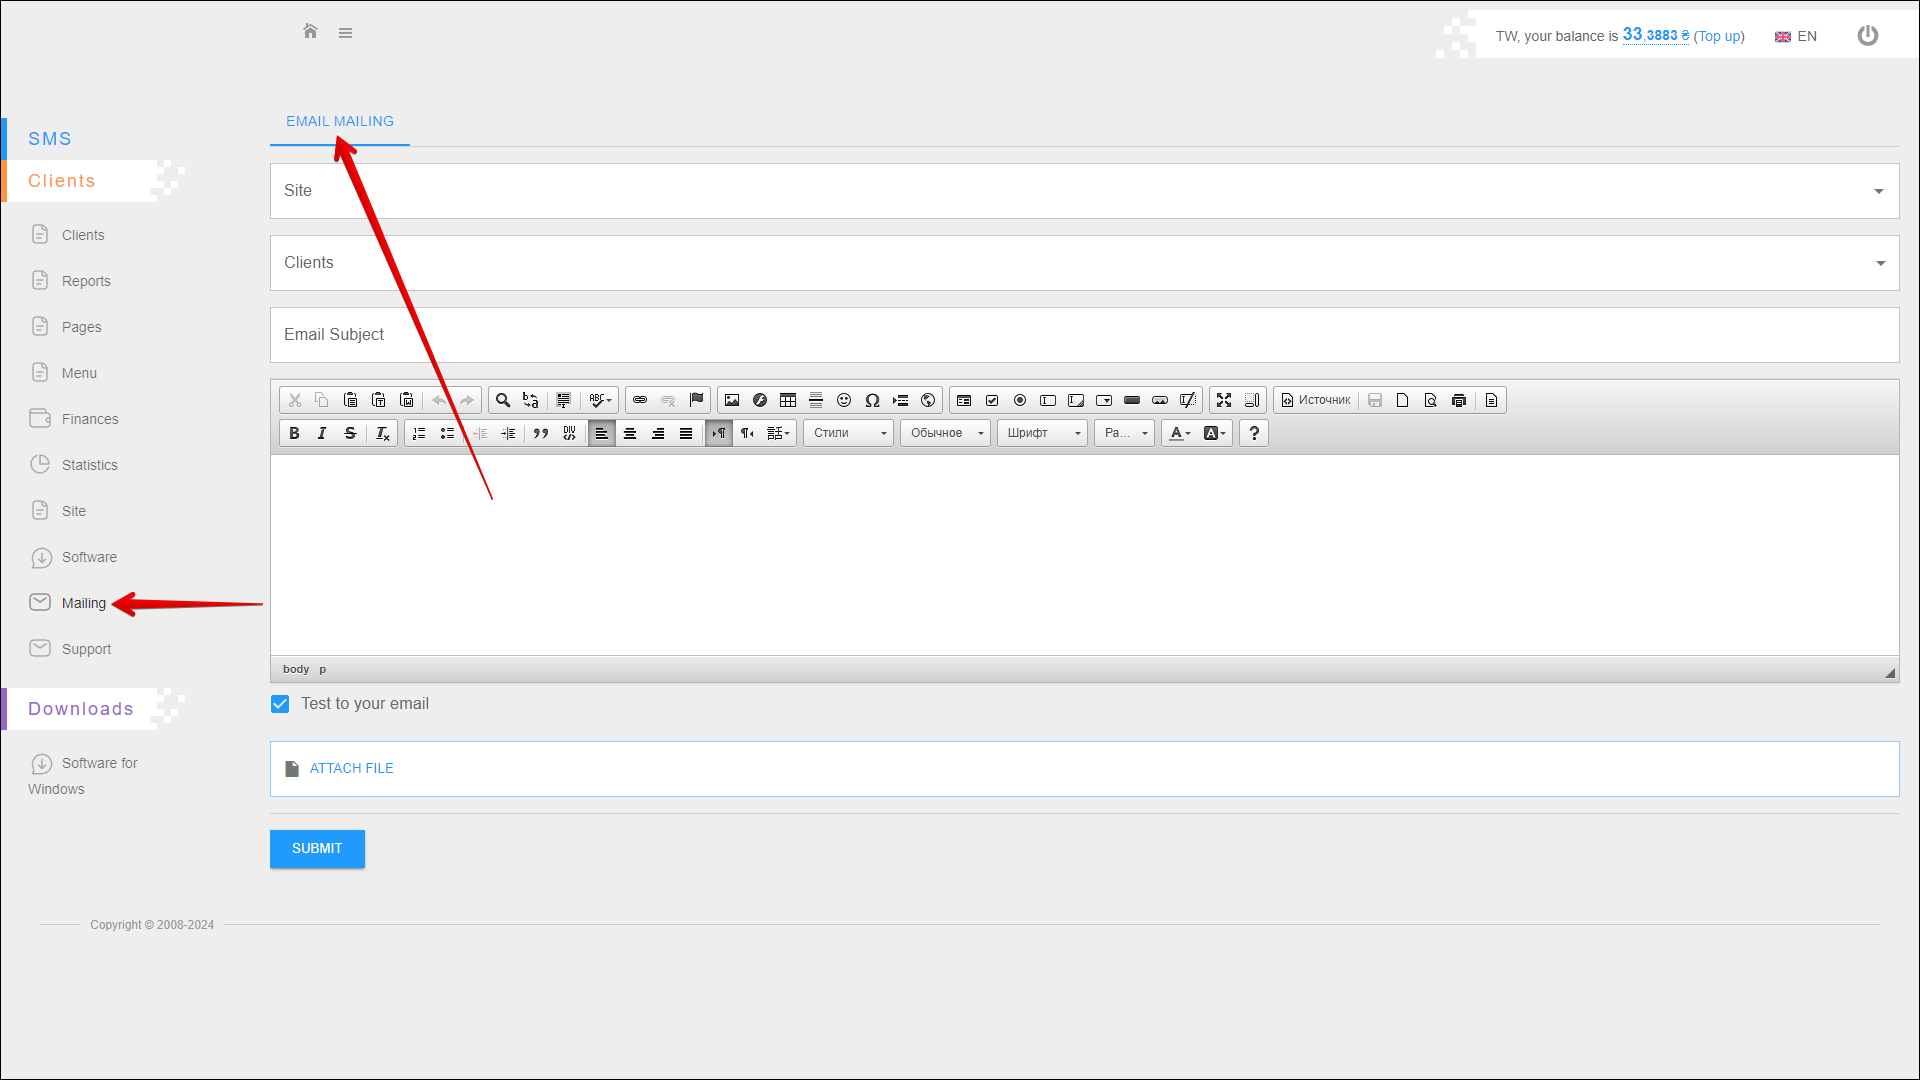
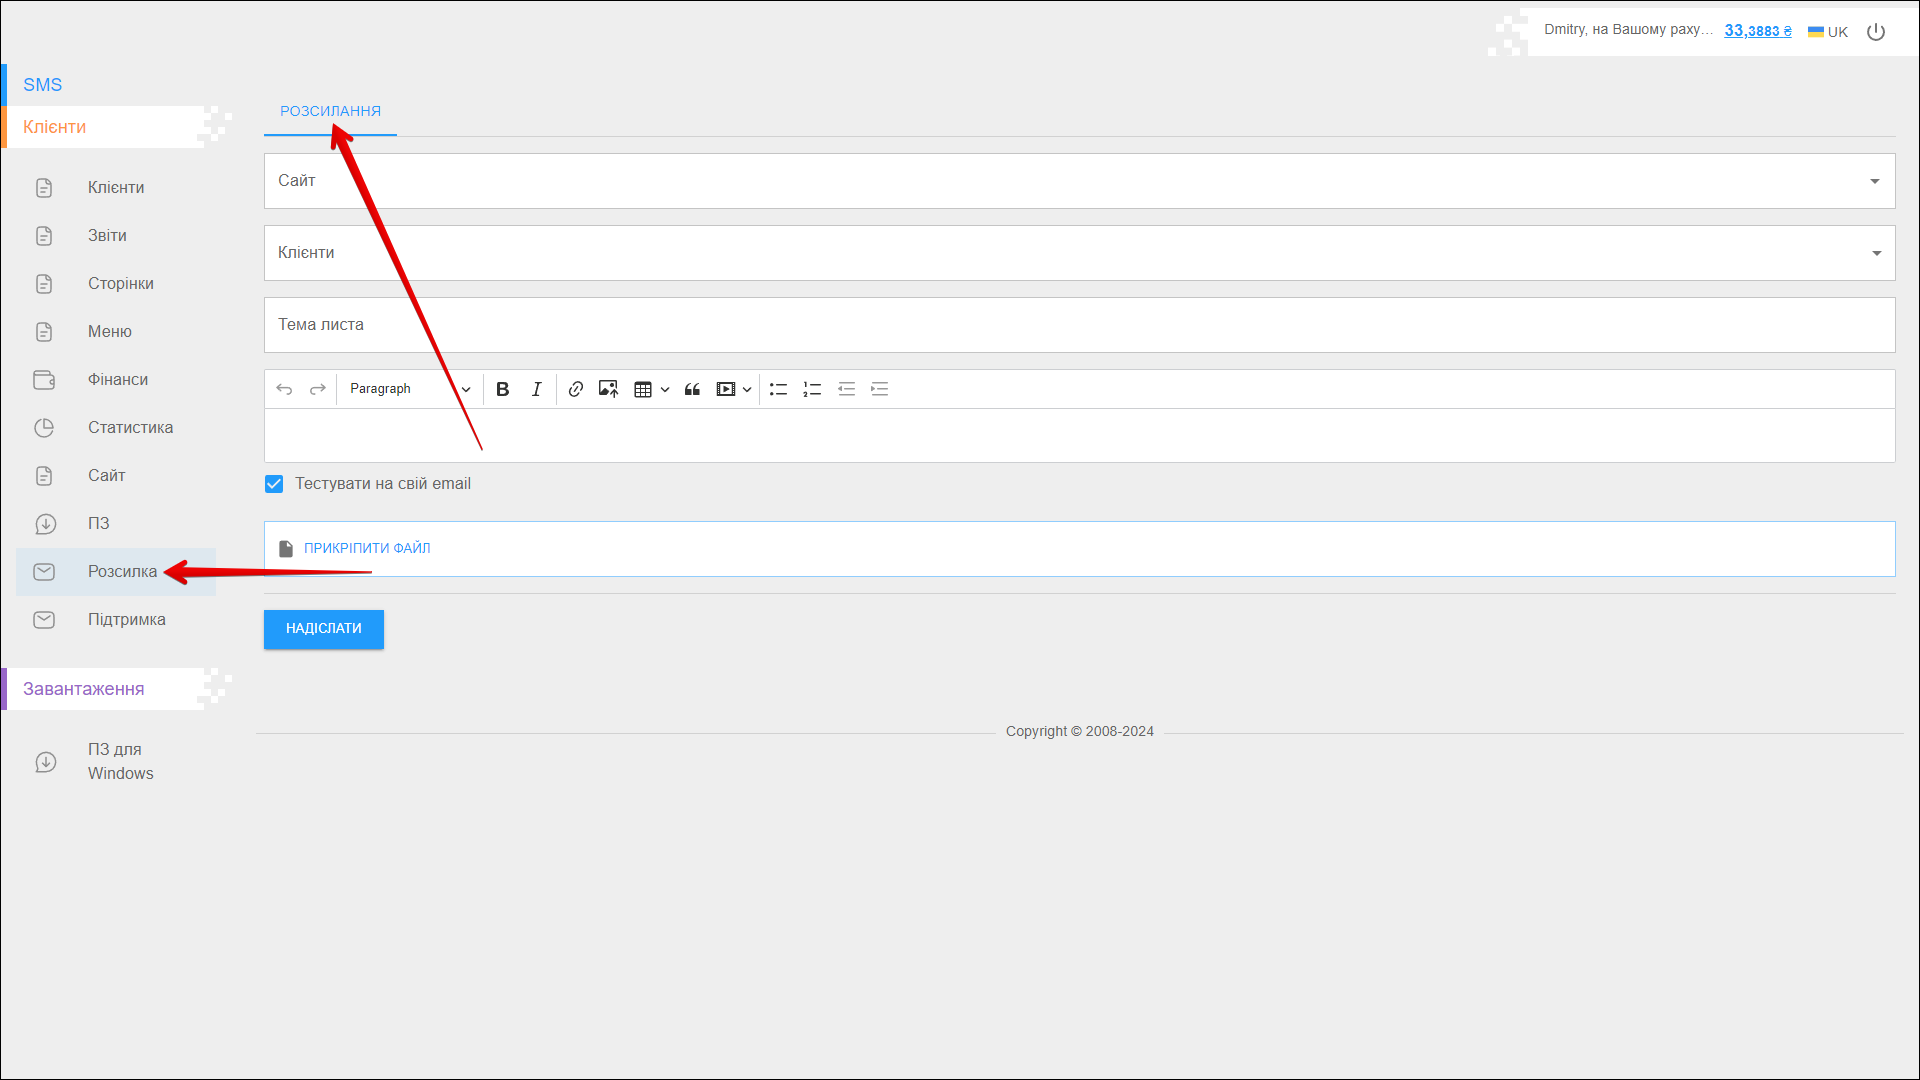
Клієнти-Розсилка-Email Розсилка

diff --git a/i18n/uk/docusaurus-plugin-content-docs/current/instruction/clients/mailing/email_mailing.md b/i18n/uk/docusaurus-plugin-content-docs/current/instruction/clients/mailing/email_mailing.md
@@ -3,3 +3,26 @@ id: email_mailing
 title: Email Розсилка
 slug: /email_mailing
 ---
+
+На цій вкладці ви можете надсилати електронні листи клієнтам сайту.
+
+Щоб відкрити цю вкладку, виберіть **Клієнти** → **Розсилка** у боковому меню та перейдіть на вкладку **РОЗСИЛАННЯ**.
+
+![image1](/img/uk/clients_mailing_email_mailing/image1.png)
+
+## Відправлення електронного листа
+
+Щоб надіслати електронні листи клієнтам сайту, виконайте наведені нижче дії:
+
+|  №  | Дія |
+| :-: | --- |
+| 1 | Виберіть зі списку **Сайт**, клієнтам якого ви хочете надіслати електронного листа |
+| 2 | Виберіть типи **Клієнтів**, яким ви хочете надіслати імейл: <li>**Всім клієнтам**</li><li>**Всім клієнтам з договором**</li><li>**Всім клієнтам без договору**</li><li>**Фізичним особам**</li><li>**Фізичним особам з договором**</li><li>**Фізичним особам без договору**</li><li>**Юридичним особам**</li><li>**Юридичним особам з договором**</li><li>**Юридичним особам без договору**</li><li>**Юридичним особам та всім клієнтам з договором**</li> |
+| 3 | Вкажіть **Тему листа** |
+| 4 | За допомогою редактора введіть **Текст** листа |
+| 5 | Відмітьте чекбокс **Тестувати на свій email**, щоб надіслати тестовий лист на вашу електронну адресу |
+| 6 | Щоб прикріпити файл до листа, натисніть **ПРИКРІПИТИ ФАЙЛ** і виберіть файл з папок вашого пристрою |
+
+Натисніть **НАДІСЛАТИ** щоб відправити листа.
+
+![image2](/img/uk/clients_mailing_email_mailing/image2.png)

diff --git a/docs/instruction/clients/mailing/email_mailing.md b/docs/instruction/clients/mailing/email_mailing.md
@@ -16,7 +16,7 @@ To send emails to site clients follow the steps below:
 
 |  №  | Action |
 | :-: | ------ |
-| 1 | Select the **site** whose clients you want to send an email to. |
+| 1 | Select the **site** whose clients you want to send an email to |
 | 2 | Select the types of **clients** you want to send the email to: <li>**All clients**</li><li>**To all clients with a contract**</li><li>**To all clients without a contract**</li><li>**Individuals**</li><li>**Individuals with a contract**</li><li>**Legal entities**</li><li>**Legal entities with a contract**</li><li>**To legal entities without a contract**</li><li>**To legal entities end all clients with a contract**</li> |
 | 3 | Enter the **email subject** line |
 | 4 | Use the editor to enter the **text** of the email |
